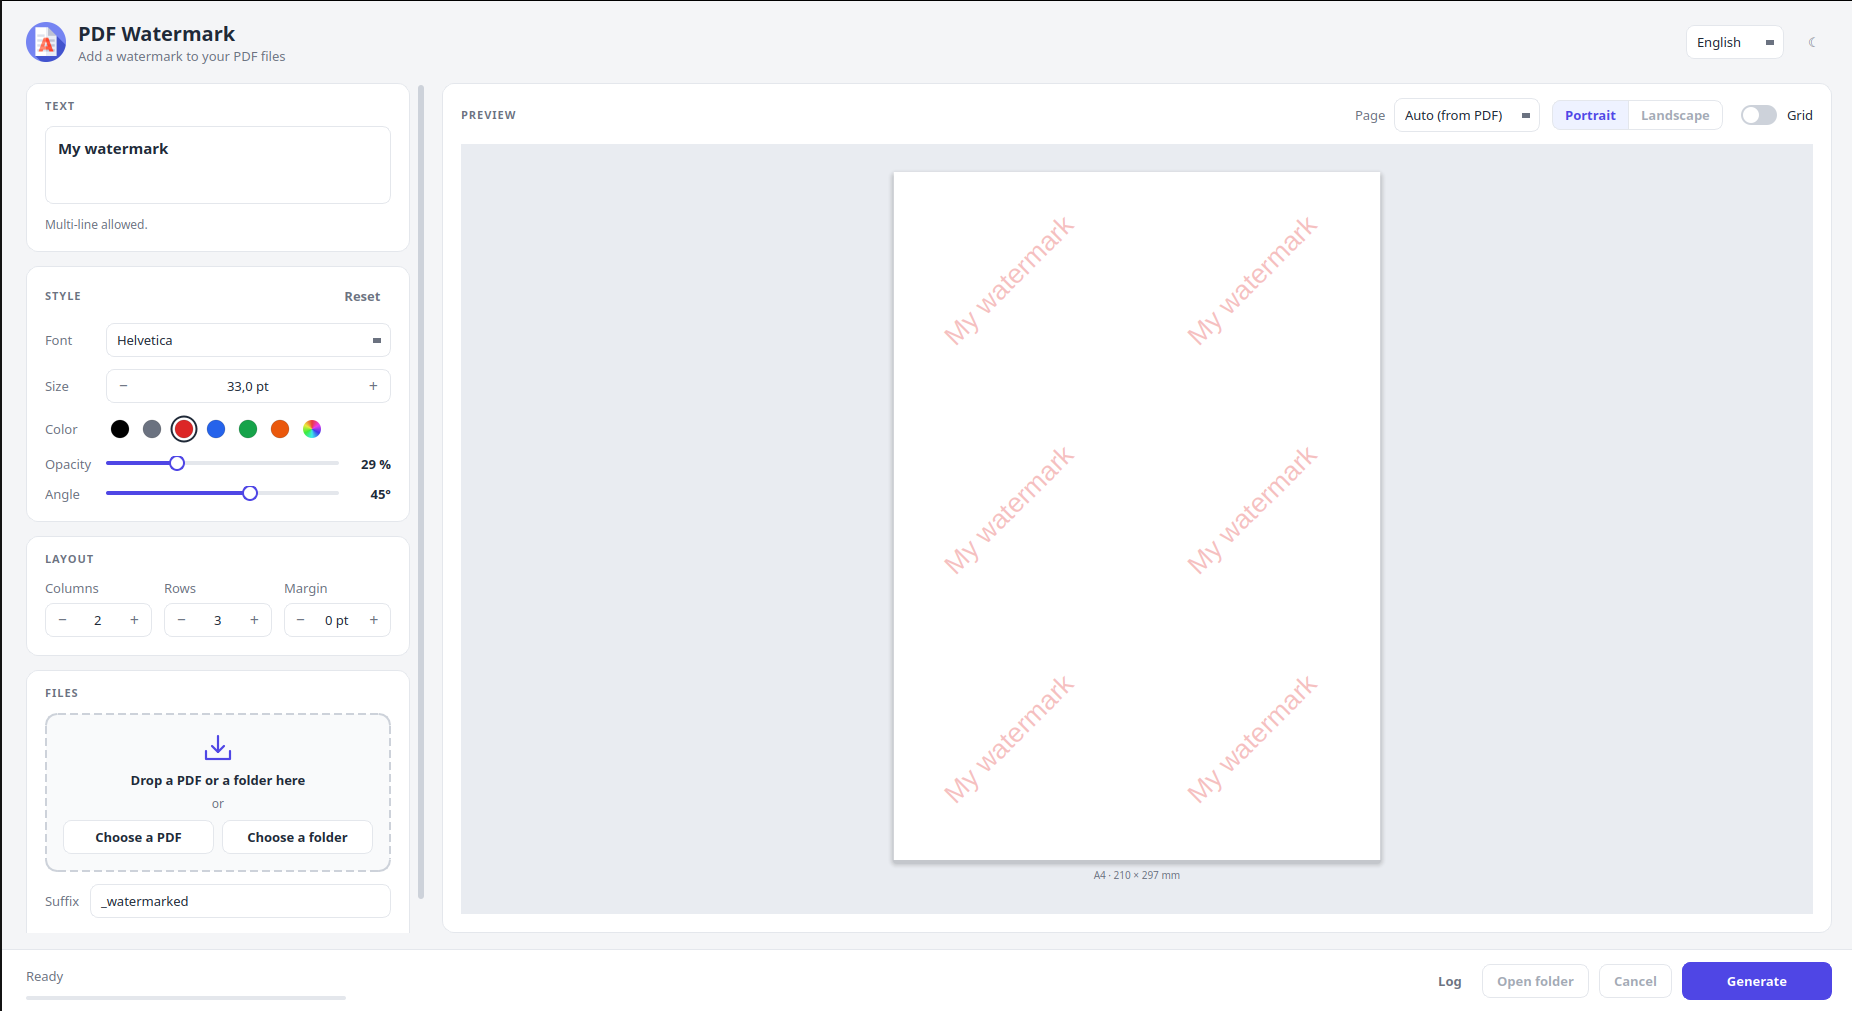
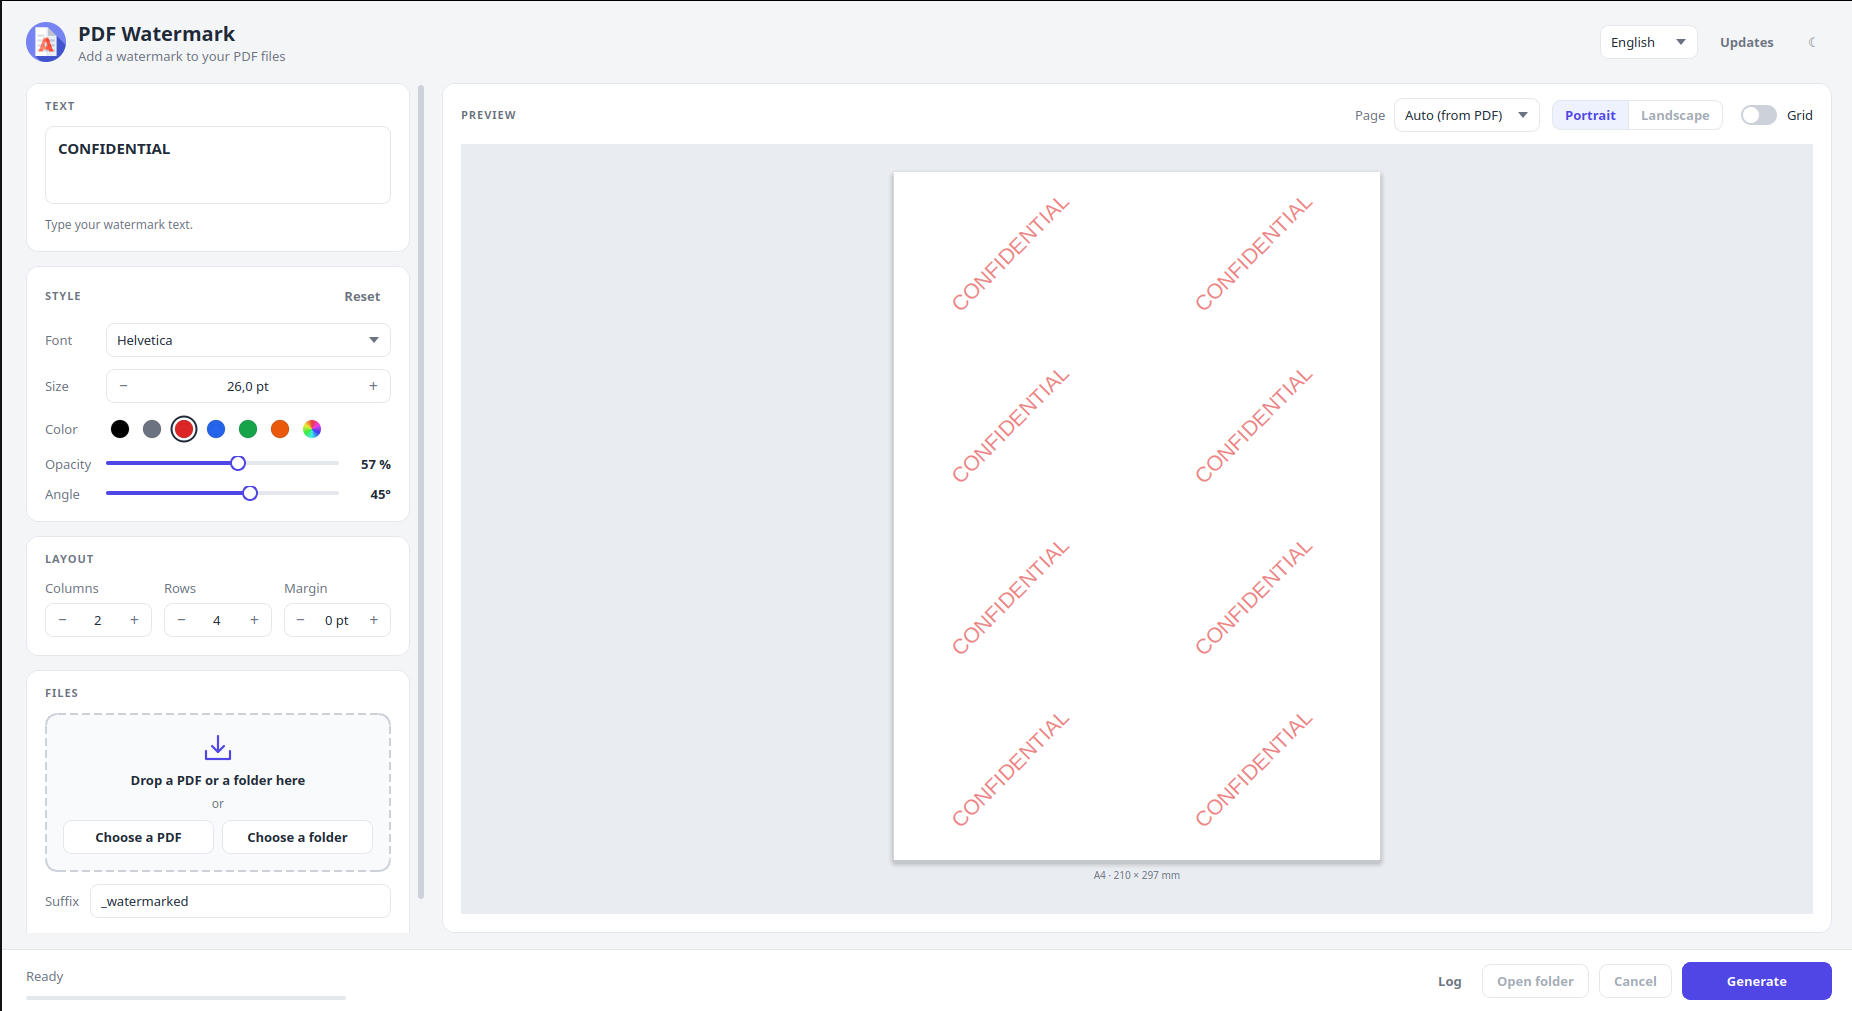
[GUI] Changes in text hint + replacing combobox drow down arrow by arrows.

diff --git a/watermark_pdf/translation.py b/watermark_pdf/translation.py
@@ -30,8 +30,8 @@ TRANSLATIONS = {
                         'Check for a new release on:<br><a href="{url}">{url}</a>',
         # Text
         "text_card": "Text",
-        "placeholder_text": "CONFIDENTIAL",
-        "text_hint": "Multi-line allowed.",
+        "placeholder_text": "e.g. CONFIDENTIAL",
+        "text_hint": "Type your watermark text.",
         # Style
         "style_card": "Style",
         "font": "Font",
@@ -116,8 +116,8 @@ TRANSLATIONS = {
         "updates_text": 'Vous utilisez la version {version}.<br><br>'
                         'Vérifiez si une nouvelle version est disponible :<br><a href="{url}">{url}</a>',
         "text_card": "Texte",
-        "placeholder_text": "CONFIDENTIEL",
-        "text_hint": "Multiligne autorisé.",
+        "placeholder_text": "Ex. : CONFIDENTIEL",
+        "text_hint": "Saisissez le texte du filigrane.",
         "style_card": "Style",
         "font": "Police",
         "font_size": "Taille",
@@ -194,8 +194,8 @@ TRANSLATIONS = {
         "updates_text": 'Está usando la versión {version}.<br><br>'
                         'Compruebe si hay una nueva versión en:<br><a href="{url}">{url}</a>',
         "text_card": "Texto",
-        "placeholder_text": "CONFIDENCIAL",
-        "text_hint": "Se permiten varias líneas.",
+        "placeholder_text": "Ej.: CONFIDENCIAL",
+        "text_hint": "Escriba el texto de la marca de agua.",
         "style_card": "Estilo",
         "font": "Fuente",
         "font_size": "Tamaño",
@@ -272,8 +272,8 @@ TRANSLATIONS = {
         "updates_text": 'Stai usando la versione {version}.<br><br>'
                         'Verifica se è disponibile una nuova versione su:<br><a href="{url}">{url}</a>',
         "text_card": "Testo",
-        "placeholder_text": "CONFIDENZIALE",
-        "text_hint": "Più righe consentite.",
+        "placeholder_text": "Es.: CONFIDENZIALE",
+        "text_hint": "Digita il testo della filigrana.",
         "style_card": "Stile",
         "font": "Carattere",
         "font_size": "Dimensione",
@@ -350,8 +350,8 @@ TRANSLATIONS = {
         "updates_text": 'Sie verwenden Version {version}.<br><br>'
                         'Prüfen Sie, ob eine neue Version verfügbar ist:<br><a href="{url}">{url}</a>',
         "text_card": "Text",
-        "placeholder_text": "VERTRAULICH",
-        "text_hint": "Mehrzeilig möglich.",
+        "placeholder_text": "z. B. VERTRAULICH",
+        "text_hint": "Wasserzeichentext eingeben.",
         "style_card": "Stil",
         "font": "Schriftart",
         "font_size": "Größe",

diff --git a/watermark_pdf/watermark_ui.py b/watermark_pdf/watermark_ui.py
@@ -237,9 +237,9 @@ QComboBox:focus { border-color: %(accent)s; }
 QComboBox:disabled { color: %(disabled)s; }
 QComboBox::drop-down { border: none; width: 26px; }
 QComboBox::down-arrow {
-    width: 0; height: 0;
-    border-left: 4px solid transparent; border-right: 4px solid transparent;
-    border-top: 5px solid %(muted)s;
+    image: url(%(arrow)s);
+    width: 10px; height: 6px;
+    margin-right: 6px;
 }
 QComboBox QAbstractItemView {
     background: %(surface)s; border: 1px solid %(border)s; padding: 4px; outline: 0;
@@ -1388,7 +1388,9 @@ class WatermarkWindow(QMainWindow):
     # ==================================================================
 
     def _apply_theme(self) -> None:
-        colors = THEMES[self.theme]
+        colors = dict(THEMES[self.theme])
+        arrow = resources.files(__package__) / "resources" / f"arrow_down_{self.theme}.svg"
+        colors["arrow"] = Path(str(arrow)).as_posix()
         _apply_palette(QApplication.instance(), colors)
         self.setStyleSheet(STYLESHEET % colors)
 

diff --git a/watermark_pdf/__version__.py b/watermark_pdf/__version__.py
@@ -16,4 +16,4 @@ You should have received a copy of the GNU General Public License
 along with this program.  If not, see <https://www.gnu.org/licenses/>.
 """
 
-__version__ = "1.2.0"
+__version__ = "1.2.1"
